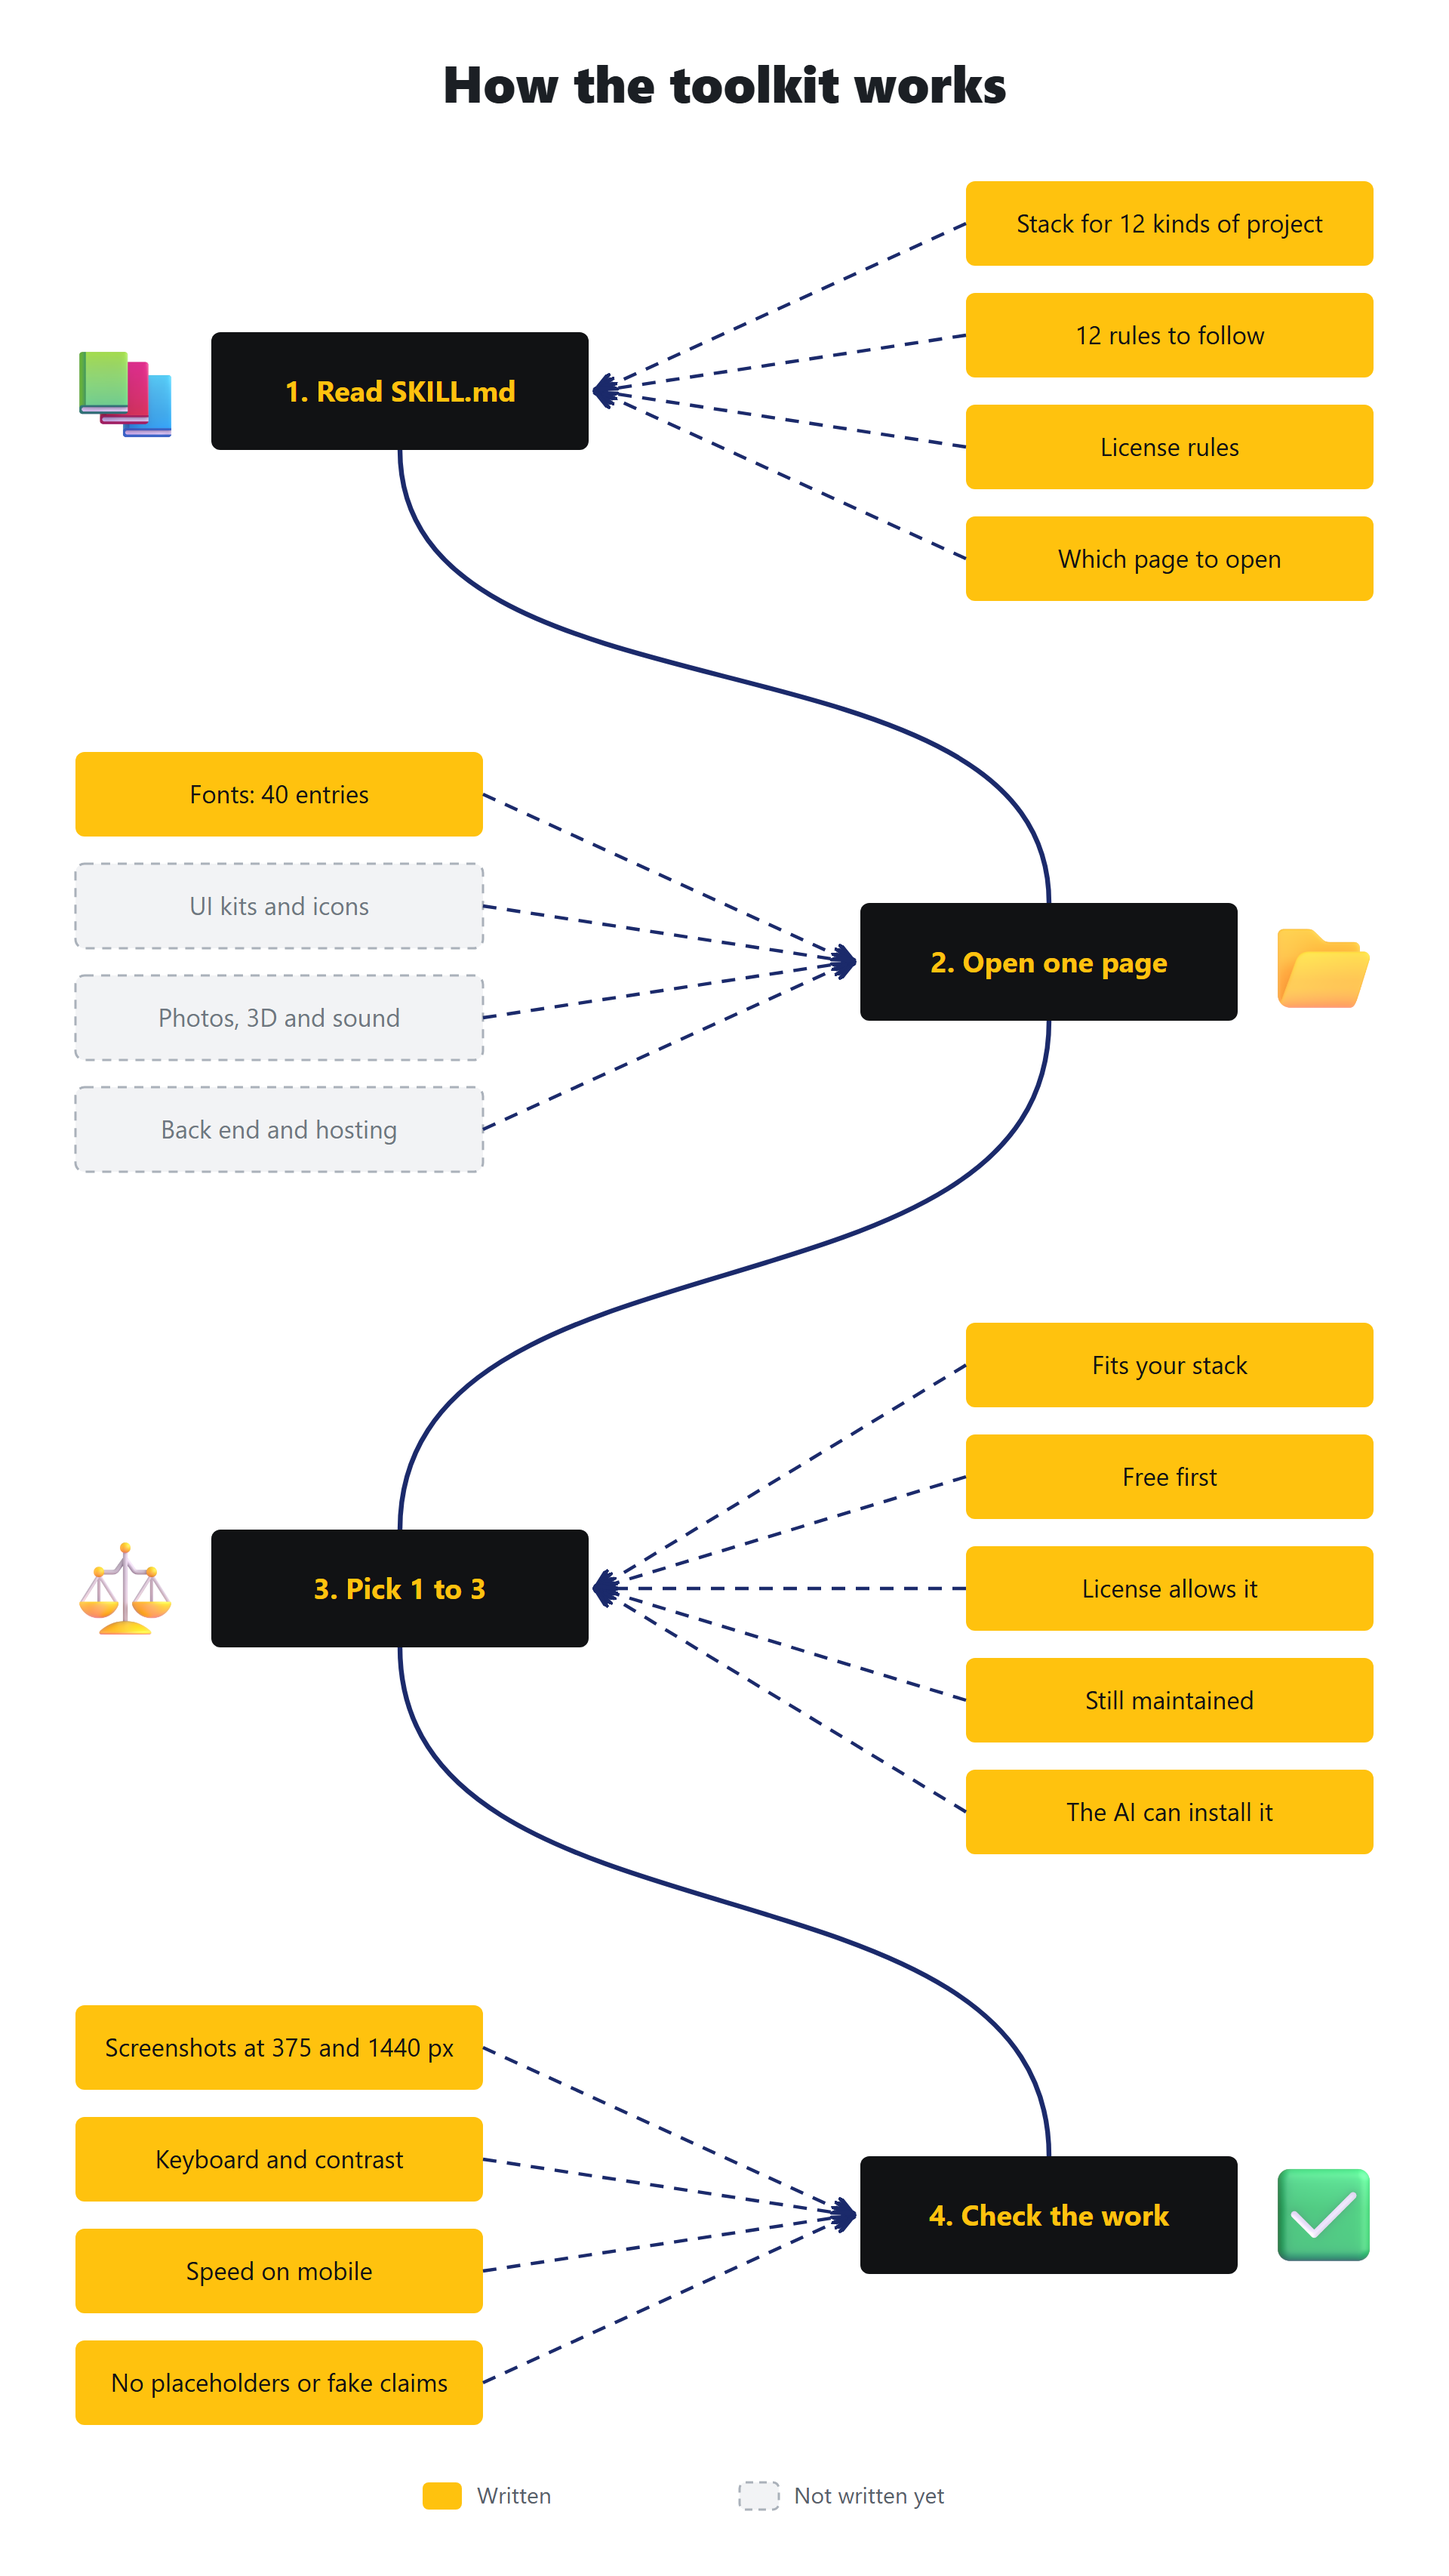
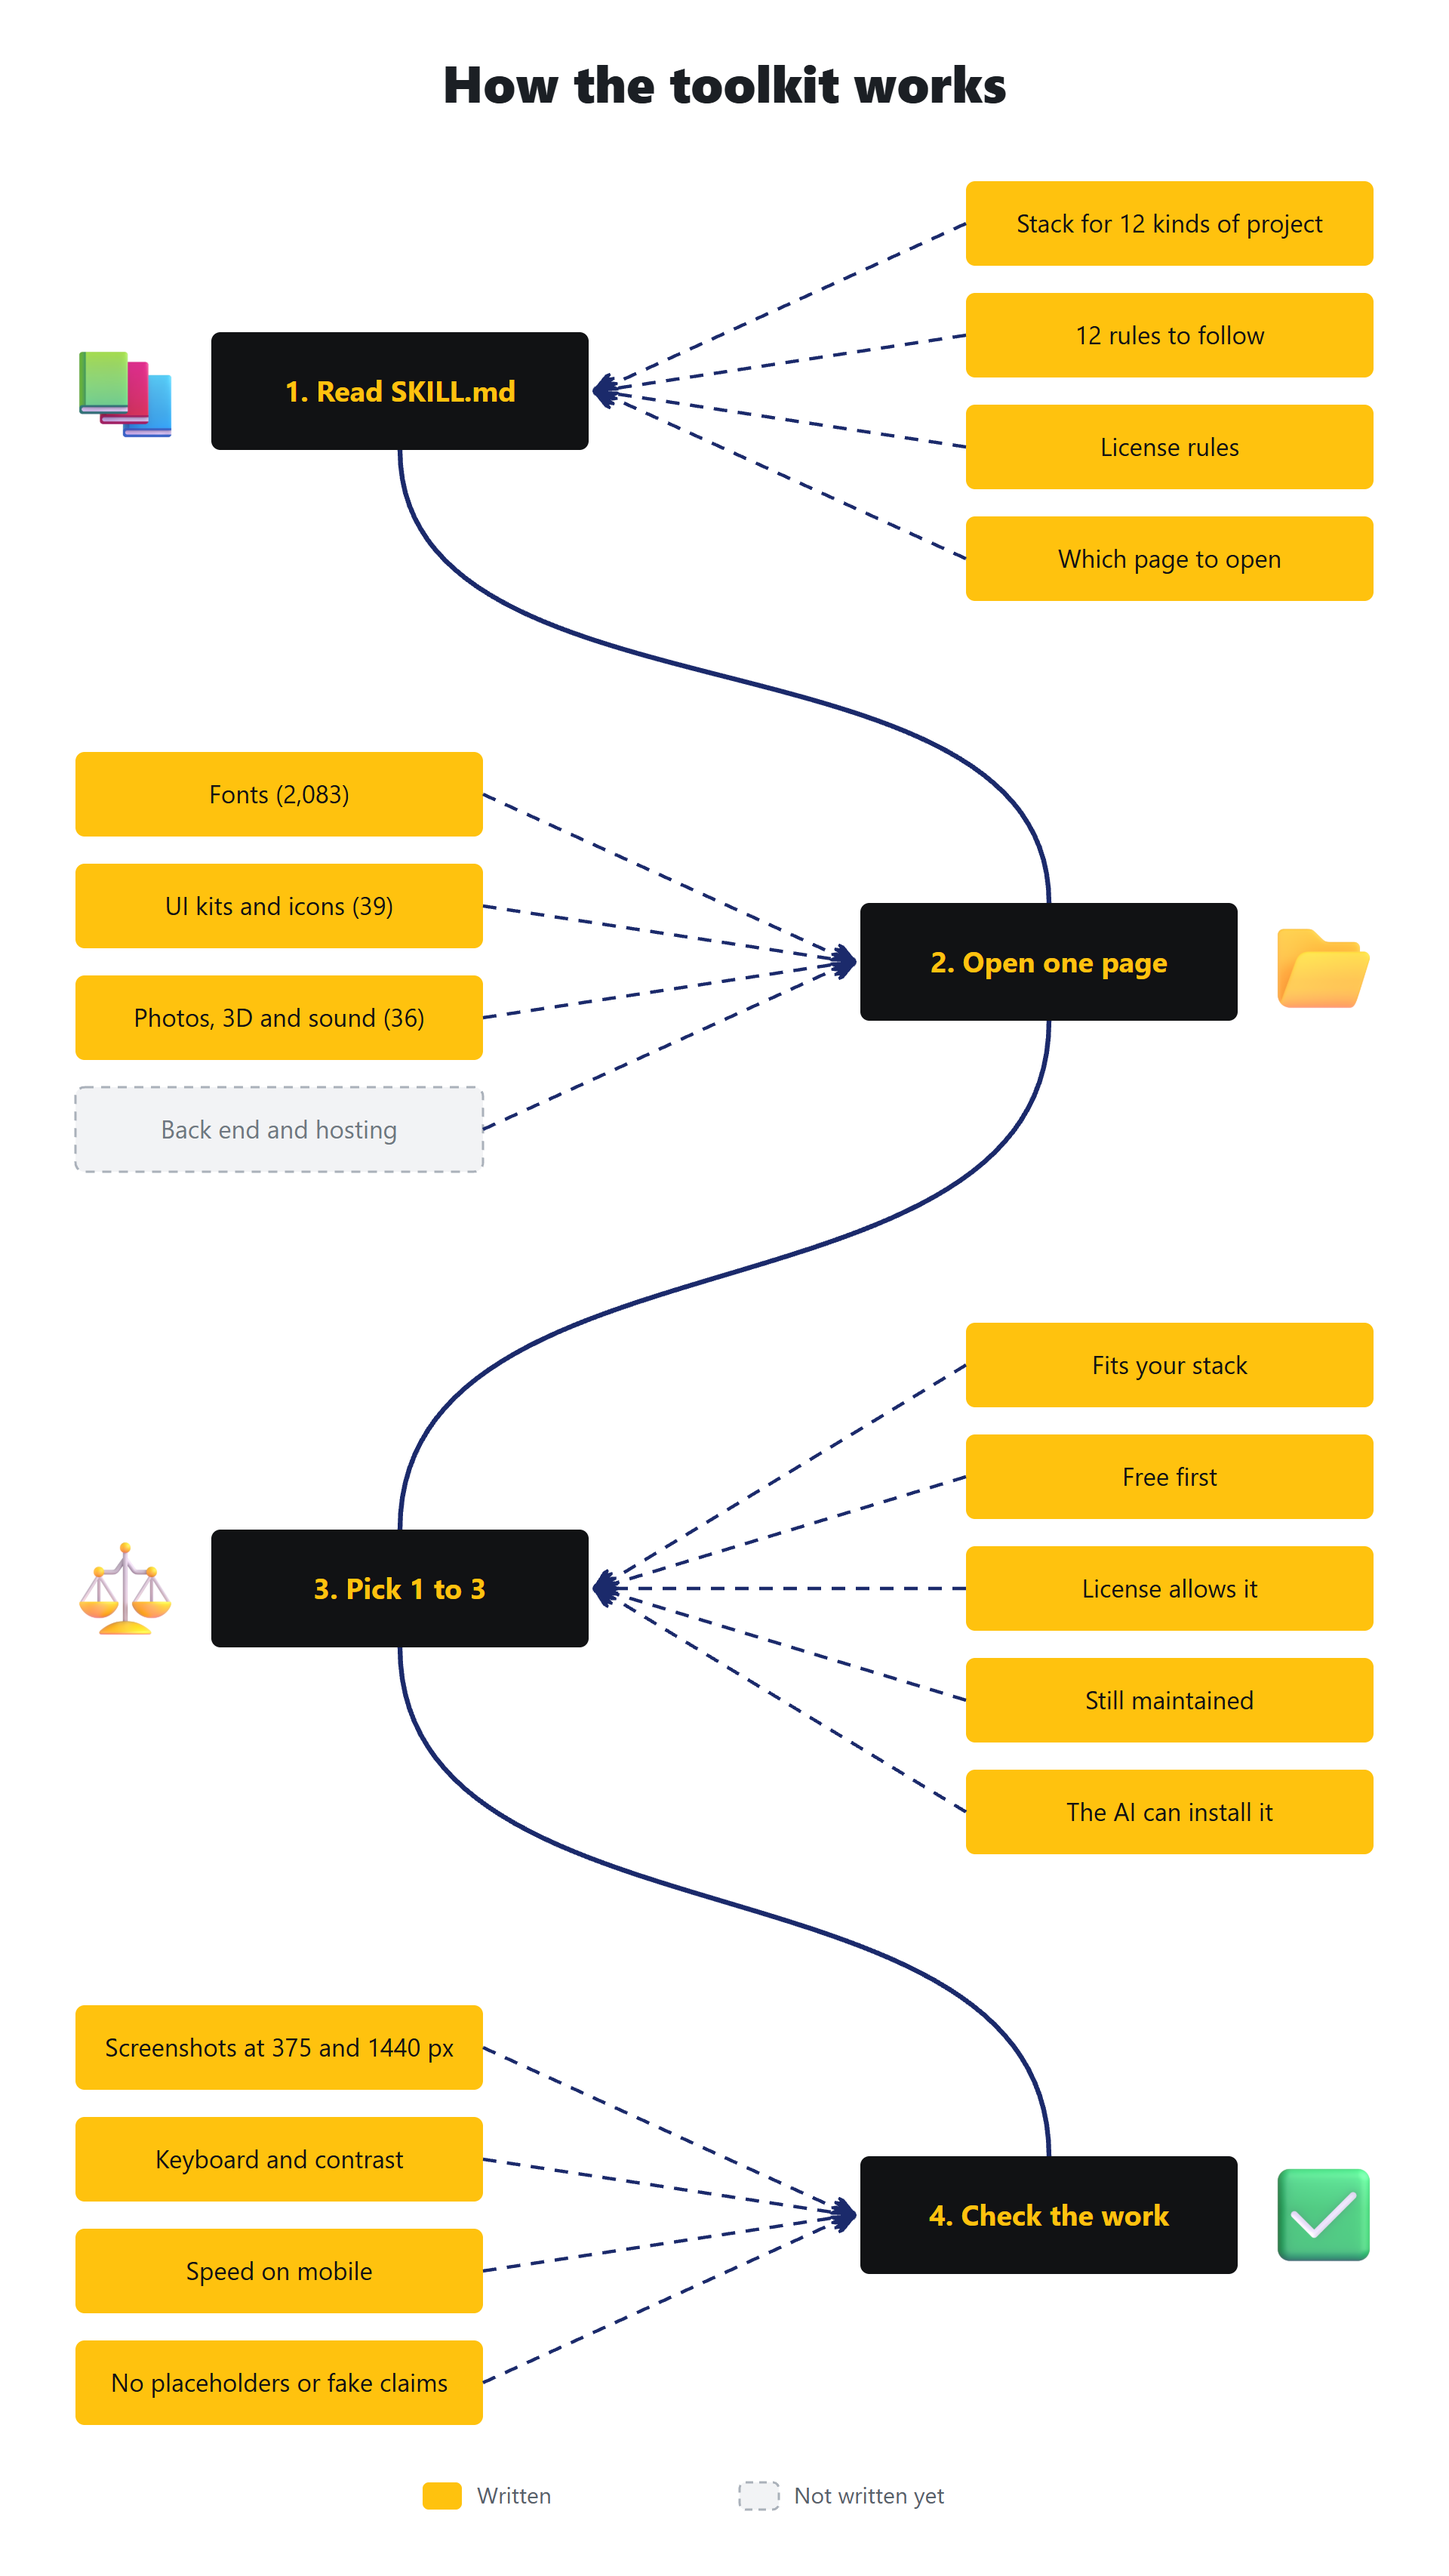
How-it-works diagram: HTML source, three pages written

Changed region(s): [[0.0312, 0.3107, 0.3438, 0.4349]]

diff --git a/.github/assets/src/how-it-works.html b/.github/assets/src/how-it-works.html
@@ -1,0 +1,104 @@
+<!doctype html>
+<html lang="en">
+<head>
+<meta charset="utf-8">
+<title>How the toolkit works</title>
+<!--
+  Source for how-it-works-light.png and how-it-works-dark.png (1920x3412: a 960x1706 page at 2x).
+  Light is the default; add #dark to the URL for the dark version.
+  Re-render from this folder with headless Chrome at 2x:
+    chrome --headless=new --force-device-scale-factor=2 --window-size=960,1706 --virtual-time-budget=5000 --screenshot=../how-it-works-light.png "file:///<abs path>/how-it-works.html"
+    chrome --headless=new --force-device-scale-factor=2 --window-size=960,1706 --virtual-time-budget=5000 --screenshot=../how-it-works-dark.png "file:///<abs path>/how-it-works.html#dark"
+  Stage icons are Fluent Emoji 3D (MIT), in ../icons/.
+  Sub-boxes marked "planned" are drawn dashed; the rest are solid (written).
+-->
+<style>
+  html, body { margin:0; background:#ffffff; }
+  html.dark, html.dark body { background:#0d1117; }
+  svg { display:block; font-family:"Segoe UI", system-ui, sans-serif; }
+</style>
+</head>
+<body>
+<svg id="d" xmlns="http://www.w3.org/2000/svg"></svg>
+<script>
+  const dark = location.hash === '#dark';
+  if (dark) document.documentElement.classList.add('dark');
+
+  const SPEC = {
+    title: 'How the toolkit works',
+    stages: [
+      { title: 'Read SKILL.md', icon: '../icons/books.png',
+        subs: ['Stack for 12 kinds of project', '12 rules to follow', 'License rules', 'Which page to open'] },
+      { title: 'Open one page', icon: '../icons/open-file-folder.png',
+        subs: ['Fonts (2,083)', 'UI kits and icons (39)', 'Photos, 3D and sound (36)', ['Back end and hosting', 'planned']] },
+      { title: 'Pick 1 to 3', icon: '../icons/balance-scale.png',
+        subs: ['Fits your stack', 'Free first', 'License allows it', 'Still maintained', 'The AI can install it'] },
+      { title: 'Check the work', icon: '../icons/check-mark-button.png',
+        subs: ['Screenshots at 375 and 1440 px', 'Keyboard and contrast', 'Speed on mobile', 'No placeholders or fake claims'] },
+    ],
+    legend: ['Written', 'Not written yet'],
+  };
+
+  const C = {
+    ink: dark ? '#e6edf3' : '#1b1f24',
+    muted: dark ? '#8b949e' : '#57606a',
+    main: dark ? '#FFC20E' : '#111214',
+    main_ink: dark ? '#111214' : '#FFC20E',
+    sub: dark ? '#2b3038' : '#FFC20E',
+    sub_ink: dark ? '#f0f2f5' : '#111214',
+    path: dark ? '#c9d1d9' : '#1b2a6b',
+    planned_fill: dark ? '#161b22' : '#f2f3f5',
+    planned_ink: dark ? '#8b949e' : '#6e7781',
+    planned_line: dark ? '#484f58' : '#aab1ba',
+  };
+
+  const esc = s => s.replace(/&/g, '&amp;').replace(/</g, '&lt;');
+  const W = 960, MAIN_W = 250, MAIN_H = 78, SUB_W = 270, SUB_H = 56, SUB_GAP = 18;
+  const LEFT_MAIN_X = 140, RIGHT_MAIN_X = W - 140 - MAIN_W, LEFT_SUB_X = 50, RIGHT_SUB_X = W - 50 - SUB_W;
+  const TOP = 120, STAGE_GAP = 100;
+
+  const out = [], mains = [];
+  let y = TOP;
+  SPEC.stages.forEach((st, i) => {
+    const subs = st.subs, blockH = subs.length * SUB_H + (subs.length - 1) * SUB_GAP;
+    const left = i % 2 === 0;
+    const mx = left ? LEFT_MAIN_X : RIGHT_MAIN_X, sx = left ? RIGHT_SUB_X : LEFT_SUB_X;
+    const my = y + blockH / 2 - MAIN_H / 2;
+    mains.push([mx, my]);
+    subs.forEach((sub, j) => {
+      const [text, state] = typeof sub === 'string' ? [sub, 'done'] : sub;
+      const planned = state === 'planned', sy = y + j * (SUB_H + SUB_GAP);
+      const stroke = planned ? `stroke="${C.planned_line}" stroke-width="1.5" stroke-dasharray="6 5"` : '';
+      out.push(`<rect x="${sx}" y="${sy}" width="${SUB_W}" height="${SUB_H}" rx="6" fill="${planned ? C.planned_fill : C.sub}" ${stroke}/>`);
+      out.push(`<text x="${sx + SUB_W / 2}" y="${sy + SUB_H / 2 + 6}" text-anchor="middle" font-size="16.5" fill="${planned ? C.planned_ink : C.sub_ink}">${esc(text)}</text>`);
+      const x1 = left ? sx : sx + SUB_W, x2 = left ? mx + MAIN_W + 6 : mx - 6;
+      out.push(`<line x1="${x1}" y1="${sy + SUB_H / 2}" x2="${x2}" y2="${my + MAIN_H / 2}" stroke="${C.path}" stroke-width="2.2" stroke-dasharray="9 7" marker-end="url(#arr)"/>`);
+    });
+    out.push(`<rect x="${mx}" y="${my}" width="${MAIN_W}" height="${MAIN_H}" rx="6" fill="${C.main}"/>`);
+    out.push(`<text x="${mx + MAIN_W / 2}" y="${my + MAIN_H / 2 + 7}" text-anchor="middle" font-size="19" font-weight="700" fill="${C.main_ink}">${i + 1}. ${esc(st.title)}</text>`);
+    const ix = left ? mx - 92 : mx + MAIN_W + 22;
+    out.push(`<image href="${st.icon}" x="${ix}" y="${my + MAIN_H / 2 - 35}" width="70" height="70"/>`);
+    y += blockH + STAGE_GAP;
+  });
+
+  const paths = mains.slice(1).map(([bx, by], k) => {
+    const [ax, ay] = mains[k];
+    const x1 = ax + MAIN_W / 2, y1 = ay + MAIN_H, x2 = bx + MAIN_W / 2, y2 = by, midy = (y1 + y2) / 2;
+    return `<path d="M${x1},${y1} C${x1},${midy + 40} ${x2},${midy - 40} ${x2},${y2}" fill="none" stroke="${C.path}" stroke-width="3.2"/>`;
+  });
+
+  const H = y - STAGE_GAP + 60 + 40, lx = W / 2 - 200;
+  const legend =
+    `<rect x="${lx}" y="${H - 62}" width="26" height="18" rx="4" fill="${C.sub}"/>` +
+    `<text x="${lx + 36}" y="${H - 48}" font-size="15" fill="${C.muted}">${SPEC.legend[0]}</text>` +
+    `<rect x="${lx + 210}" y="${H - 62}" width="26" height="18" rx="4" fill="${C.planned_fill}" stroke="${C.planned_line}" stroke-width="1.5" stroke-dasharray="5 4"/>` +
+    `<text x="${lx + 246}" y="${H - 48}" font-size="15" fill="${C.muted}">${SPEC.legend[1]}</text>`;
+  const title = `<text x="${W / 2}" y="68" text-anchor="middle" font-size="34" font-weight="800" fill="${C.ink}">${esc(SPEC.title)}</text>`;
+
+  const svg = document.getElementById('d');
+  svg.setAttribute('width', W); svg.setAttribute('height', H); svg.setAttribute('viewBox', `0 0 ${W} ${H}`);
+  svg.innerHTML = `<defs><marker id="arr" viewBox="0 0 10 10" refX="8" refY="5" markerWidth="7" markerHeight="7" orient="auto-start-reverse">` +
+    `<path d="M0,0 L10,5 L0,10" fill="none" stroke="${C.path}" stroke-width="2"/></marker></defs>` + title + paths.join('') + out.join('') + legend;
+</script>
+</body>
+</html>

diff --git a/README.md b/README.md
@@ -53,7 +53,7 @@ It works with any tool that reads `SKILL.md`: Claude Code, Codex, Cursor, Gemini
 <p align="center">
   <picture>
     <source media="(prefers-color-scheme: dark)" srcset=".github/assets/how-it-works-dark.png">
-    <img src=".github/assets/how-it-works-light.png" width="760" alt="Diagram, How the toolkit works: four numbered stages on a winding path. 1. Read SKILL.md: stack for 12 kinds of project, 12 rules to follow, license rules, which page to open. 2. Open one page: fonts with 40 entries is written; UI kits and icons, photos 3D and sound, back end and hosting are shown dashed as not written yet. 3. Pick 1 to 3: fits your stack, free first, license allows it, still maintained, the AI can install it. 4. Check the work: screenshots at 375 and 1440 px, keyboard and contrast, speed on mobile, no placeholders or fake claims.">
+    <img src=".github/assets/how-it-works-light.png" width="760" alt="Diagram, How the toolkit works: four numbered stages on a winding path. 1. Read SKILL.md: stack for 12 kinds of project, 12 rules to follow, license rules, which page to open. 2. Open one page: fonts (2,083), UI kits and icons (39) and photos, 3D and sound (36) are written; back end and hosting is shown dashed as not written yet. 3. Pick 1 to 3: fits your stack, free first, license allows it, still maintained, the AI can install it. 4. Check the work: screenshots at 375 and 1440 px, keyboard and contrast, speed on mobile, no placeholders or fake claims.">
   </picture>
 </p>
 
